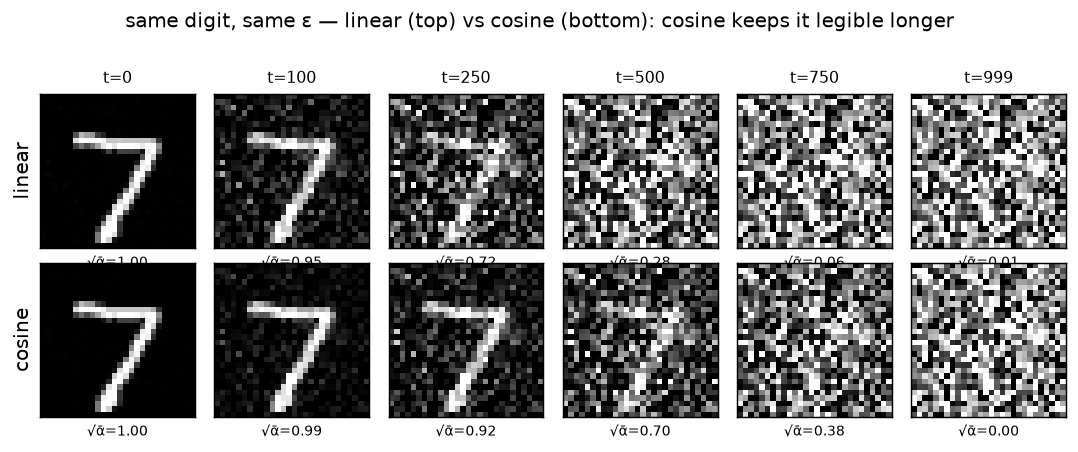
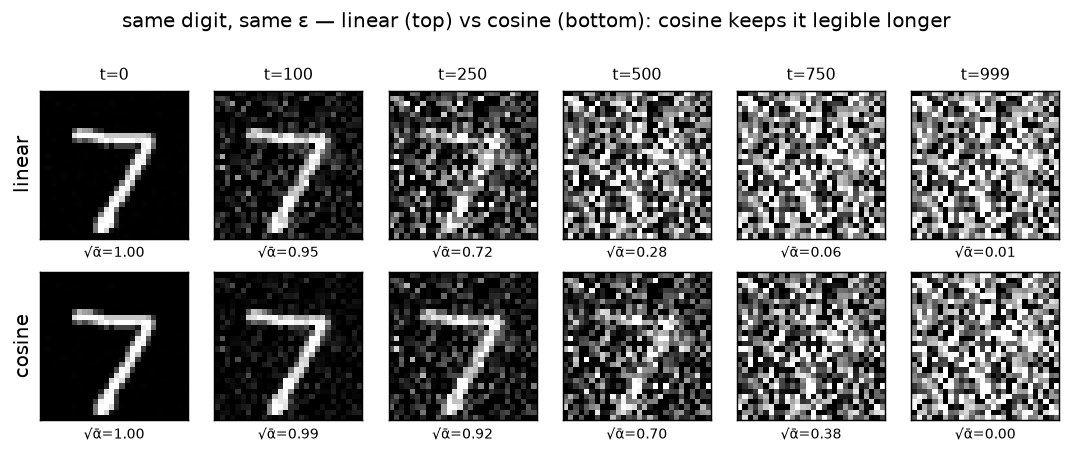
-

diff --git a/new/diffusion/walkthroughs/ddpm/children/forward_process/walkthroughs/forward_process.py b/new/diffusion/walkthroughs/ddpm/children/forward_process/walkthroughs/forward_process.py
@@ -201,6 +201,15 @@ def forward_iterative(x0, betas, t_idx, n_samples, generator=None):
     return x
 
 
+def forward_closed_form(x0, alpha_bars, t_idx, n_samples, generator=None):
+    """The ONE-JUMP forward process: x_t = √ᾱ_t·x0 + √(1-ᾱ_t)·ε, one fresh ε ~ N(0,1) per sample.
+    Same signature/return as forward_iterative so the two can be compared draw-for-draw — this is
+    the loop above collapsed into a single step by the derivation in the comment block."""
+    ab = alpha_bars[t_idx]
+    eps = torch.randn(n_samples, generator=generator)
+    return ab.sqrt() * x0 + (1.0 - ab).sqrt() * eps
+
+
 '''
 DERIVATION — the forward closed form  x_t = √ᾱ·x0 + √(1−ᾱ)·ε : why the t single steps
 collapse into ONE jump.
@@ -240,20 +249,30 @@ def exp_3_closed_form(seed=0, T=1000):
     g = torch.Generator().manual_seed(seed)
     betas, _, alpha_bars = make_linear_schedule(T=T)
 
-    # (A) we can't compare single samples (each draws its own noise); compare the DISTRIBUTION.
+    # (A) run BOTH procedures as Monte-Carlo and compare. We can't match single samples (each
+    #     draws its own noise), so compare the DISTRIBUTION each lands in — iterative (T-step loop)
+    #     vs closed form (one jump). Both should agree, and both should hit the analytic √ᾱ·x0 /
+    #     √(1-ᾱ) that the derivation predicts.
     x0 = torch.tensor(2.0)
     n = 40000
-    print("  (A) step-by-step vs one-jump. Noise a fixed x0=2.0 step-by-step 40k times to level t,")
-    print("      then compare its empirical mean/std to the closed form's √ᾱ·x0 and √(1-ᾱ):\n")
-    print(f"  {'t':>4} | {'iter mean':>10} {'iter std':>9} | {'√ᾱ·x0':>8} {'√(1-ᾱ)':>8}")
-    print(f"  {'-'*4}-+-{'-'*10}-{'-'*9}-+-{'-'*8}-{'-'*8}")
+    print("  (A) step-by-step vs one-jump. Noise a fixed x0=2.0 to level t, 40k times, TWO ways —")
+    print("      forward_iterative (the T-step loop) and forward_closed_form (the single jump) —")
+    print("      then read off each one's empirical mean/std. They should match each other, and")
+    print("      both should match the analytic √ᾱ·x0 and √(1-ᾱ):\n")
+    print(f"  {'t':>4} | {'iter mean':>10} {'iter std':>9} | {'closed mean':>11} {'closed std':>10} "
+          f"| {'√ᾱ·x0':>8} {'√(1-ᾱ)':>8}")
+    print(f"  {'-'*4}-+-{'-'*10}-{'-'*9}-+-{'-'*11}-{'-'*10}-+-{'-'*8}-{'-'*8}")
     for t in [100, 500, T - 1]:
-        xt = forward_iterative(x0, betas, t, n, generator=g)
+        xi = forward_iterative(x0, betas, t, n, generator=g)
+        xc = forward_closed_form(x0, alpha_bars, t, n, generator=g)
         ab = alpha_bars[t]
-        print(f"  {t:>4} | {xt.mean():>+10.4f} {xt.std():>9.4f} | "
+        print(f"  {t:>4} | {xi.mean():>+10.4f} {xi.std():>9.4f} | "
+              f"{xc.mean():>+11.4f} {xc.std():>10.4f} | "
               f"{(ab.sqrt()*x0).item():>+8.4f} {(1-ab).sqrt().item():>8.4f}")
-    print("\n      match → we can SKIP the T-step loop and jump straight to any t. That one-liner is")
-    print("      exactly what exp_1's dissolve and the parent's train loop use.\n")
+    print("\n      all three columns agree → the T-step loop and the one jump land in the SAME")
+    print("      distribution, and it's exactly the √ᾱ·x0 / √(1-ᾱ) the derivation predicts. So we")
+    print("      can SKIP the loop and jump straight to any t — what exp_1's dissolve and the")
+    print("      parent's train loop use.\n")
 
     # (B) why √: variance preservation. x0 ~ N(0,1) → Var(x_t) = ᾱ + (1-ᾱ) = 1 for every t.
     print("  (B) why the coefficients are √:  (√ᾱ)² + (√(1-ᾱ))² = ᾱ + (1-ᾱ) = 1. On unit-variance")
@@ -296,13 +315,15 @@ def exp_4_endpoint(seed=0, T=1000):
     print("  levels t, 40k times each, and watch their distributions converge:\n")
     print(f"  {'t':>4} | {'ᾱ':>9} | {'+2.0 mean':>9} {'std':>7} | {'-5.0 mean':>9} {'std':>7}")
     print(f"  {'-'*4}-+-{'-'*9}-+-{'-'*9}-{'-'*7}-+-{'-'*9}-{'-'*7}")
-    for t in [250, 500, 750, T - 1]:
+    for t in [0, 250, 500, 750, T - 1]:
         xa = forward_iterative(x0_a, betas, t, n, generator=g)
         xb = forward_iterative(x0_b, betas, t, n, generator=g)
         ab = alpha_bars[t].item()
         print(f"  {t:>4} | {ab:>9.5f} | {xa.mean():>+9.4f} {xa.std():>7.4f} | "
               f"{xb.mean():>+9.4f} {xb.std():>7.4f}")
     print()
+    print("  At t=0 the two are maximally distinct — mean ≈ x0 (+2.0 vs -5.0) with std ≈ 0 (ᾱ≈1, so")
+    print("  almost no noise yet): all the digit-specific information is intact.")
     print("  At t=250 the two are still far apart (means ≈ √ᾱ·x0: +1.44 vs -3.61) — the digit still")
     print("  shows through, exactly the mid columns of exp_1's dissolve. But as ᾱ→0 the signal term")
     print("  dies, and by t=999 BOTH are ≈ N(0,1): mean~0, std~1, indistinguishable. The forward")
@@ -430,7 +451,9 @@ def exp_6_linear_vs_cosine(seed=0, T=1000):
                 ax.set_ylabel(name, fontsize=11)
     fig.suptitle("same digit, same ε — linear (top) vs cosine (bottom): cosine keeps it legible longer",
                  fontsize=11)
-    fig.tight_layout(rect=(0, 0, 1, 0.95))
+    # h_pad gives the top row's per-cell √ᾱ labels room; without it they collapse against the
+    # cosine row below.
+    fig.tight_layout(rect=(0, 0, 1, 0.95), h_pad=2.5)
     os.makedirs(_FIGS, exist_ok=True)
     out = os.path.join(_FIGS, "06_linear_vs_cosine.png")
     fig.savefig(out, dpi=130, bbox_inches="tight")
@@ -516,11 +539,11 @@ def exp_7_snr(T=1000):
 def run_experiments():
     # exp_1_dissolve()
     # exp_2_schedule()
-    exp_3_closed_form()
+    # exp_3_closed_form()
     # exp_4_endpoint()
     # exp_5_cosine_schedule()
     # exp_6_linear_vs_cosine()
-    # exp_7_snr()
+    exp_7_snr()
 
 
 if __name__ == "__main__":

diff --git a/new/diffusion/walkthroughs/ddpm/children/forward_process/walkthroughs/notes/03_closed_form.md b/new/diffusion/walkthroughs/ddpm/children/forward_process/walkthroughs/notes/03_closed_form.md
@@ -22,19 +22,44 @@ match **in distribution**.
 
 ## (A) one-jump == step-by-step
 
-Noise a fixed `x0 = 2.0` step-by-step 40k times to level `t`, and compare the empirical
-mean/std of those draws to the closed form's predicted `√ᾱ·x0` and `√(1-ᾱ)`:
+Noise a fixed `x0 = 2.0` to level `t`, 40k times, **two ways** — `forward_iterative` (the T-step
+loop) and `forward_closed_form` (the single jump) — and read off each one's empirical mean/std.
+The two procedures should match each other, and both should match the analytic `√ᾱ·x0` / `√(1-ᾱ)`:
 
 ```
-   t |  iter mean  iter std |   √ᾱ·x0   √(1-ᾱ)
- -----+----------------------+-----------------
-  100 |   +1.8919   0.3240   |  +1.8922   0.3238
-  500 |   +0.5553   0.9571   |  +0.5578   0.9603
-  999 |   +0.0177   1.0060   |  +0.0127   1.0000
+   t |  iter mean  iter std | closed mean closed std |   √ᾱ·x0   √(1-ᾱ)
+ -----+----------------------+------------------------+-----------------
+  100 |   +1.8919   0.3240   |    +1.8947   0.3239    |  +1.8922   0.3238
+  500 |   +0.5554   0.9574   |    +0.5541   0.9639    |  +0.5578   0.9603
+  999 |   +0.0179   1.0069   |    +0.0157   0.9996    |  +0.0127   1.0000
 ```
 
-Mean and std match at every `t`. So the loop and the jump are the **same distribution** — we skip
-the loop. That one-liner is exactly what exp_1's dissolve drew and what the parent's train loop uses.
+All three columns agree at every `t`. The loop and the jump land in the **same distribution**, and
+it's exactly the `√ᾱ·x0` / `√(1-ᾱ)` the derivation predicts — so we skip the loop. That one-liner is
+exactly what exp_1's dissolve drew and what the parent's train loop uses.
+
+**Where the `√ᾱ·x0` and `√(1-ᾱ)` come from** — read them straight off the closed form. `x0` is a
+fixed constant and `ε ~ N(0,1)` (so `E[ε]=0`, `Var(ε)=1`); mean and variance are then just the two
+rules "shift/scale a constant" and "scaling by `c` multiplies variance by `c²`":
+
+```
+  x_t = √ᾱ·x0 + √(1-ᾱ)·ε ,   ε ~ N(0,1)
+
+  MEAN:  E[x_t] = E[ √ᾱ·x0 + √(1-ᾱ)·ε ]
+               = √ᾱ·x0 + √(1-ᾱ)·E[ε]        (linearity; √ᾱ·x0 is constant)
+               = √ᾱ·x0 + √(1-ᾱ)·0
+               = √ᾱ·x0                        ← the "√ᾱ·x0" column
+
+  VAR:   Var(x_t) = Var[ √ᾱ·x0 + √(1-ᾱ)·ε ]
+                  = Var[ √(1-ᾱ)·ε ]           (adding the constant √ᾱ·x0 shifts, doesn't spread)
+                  = (√(1-ᾱ))²·Var[ε]          (scaling by c → ×c² on variance)
+                  = (1-ᾱ)·1 = 1-ᾱ
+  STD:   √Var(x_t) = √(1-ᾱ)                    ← the "√(1-ᾱ)" column
+```
+
+So the closed form is `x_t ~ N(√ᾱ·x0, 1-ᾱ)`: the coefficient in front of `x0` **is** the mean, and
+the coefficient in front of `ε` **is** the std. (The `√α_s`/`√(1-α_s)` of a single step are the same
+statement for one hop; the derivation below is what lets us fold `T` hops into this one.)
 
 **Why they collapse into one jump** — compose two steps, leaning on three facts:
 

diff --git a/new/diffusion/walkthroughs/ddpm/children/forward_process/walkthroughs/notes/04_endpoint.md b/new/diffusion/walkthroughs/ddpm/children/forward_process/walkthroughs/notes/04_endpoint.md
@@ -16,7 +16,7 @@ From exp_3, the noised image has
 ```
 
 As `t → T`, `ᾱ_t → 0`, so the **signal term `√ᾱ·x0` vanishes** and the **std → 1**. Whatever `x0`
-was, `x_T ≈ N(0, I)`. The digit-specific part dies; only universal static is left.
+was, `x_T ≈ N(0, 1)`. The digit-specific part dies; only universal static is left.
 
 ---
 
@@ -28,12 +28,15 @@ their mean/std:
 ```
    t |    ᾱ     | +2.0 mean   std  | -5.0 mean   std
  -----+----------+------------------+-----------------
-  250 |  0.52142 |  +1.4458  0.6884 |  -3.6127  0.6935
-  500 |  0.07780 |  +0.5519  0.9616 |  -1.3923  0.9608
-  750 |  0.00330 |  +0.1132  1.0006 |  -0.2822  0.9965
-  999 |  0.00004 |  +0.0213  0.9965 |  -0.0362  1.0028
+    0 |  0.99990 |  +1.9998  0.0100 |  -4.9997  0.0100
+  250 |  0.52142 |  +1.4451  0.6885 |  -3.6124  0.6928
+  500 |  0.07780 |  +0.5515  0.9612 |  -1.3923  0.9603
+  750 |  0.00330 |  +0.1125  1.0003 |  -0.2836  0.9970
+  999 |  0.00004 |  +0.0207  0.9952 |  -0.0327  1.0042
 ```
 
+- **At the start (`t=0`)** the two are maximally distinct — mean `≈ x0` (`+2.0` vs `-5.0`) with
+  `std ≈ 0` (`ᾱ ≈ 1`, so almost no noise yet). All the digit-specific information is intact.
 - **Mid-way (`t=250`)** the two are still far apart — means `≈ √ᾱ·x0` = `+1.45` vs `-3.61`. The
   original still shows through (those are the *middle* columns of exp_1's dissolve, where the digit
   is grainy but legible).

diff --git a/new/diffusion/walkthroughs/ddpm/children/forward_process/walkthroughs/notes/07_snr.md b/new/diffusion/walkthroughs/ddpm/children/forward_process/walkthroughs/notes/07_snr.md
@@ -44,7 +44,10 @@ maximally ambiguous).
 
 **(2) log-SNR is the honest axis.** SNR crosses ~9 orders of magnitude, so only in log does the
 schedule look like a smooth ramp. The key landmark is `logSNR = 0` ⇔ `SNR = 1` ⇔ **signal power ==
-noise power** = the "halfway hard" point:
+noise power** = the "halfway hard" point. 
+
+`SNR = ᾱ/(1-ᾱ) = 1` means `ᾱ = 1-ᾱ`, i.e. `ᾱ = 0.5`, so
+signal power is `0.5` and noise power is `1 - 0.5 = 0.5` — `SNR = 0.5 / (1 - 0.5) = 1`:
 
 ```
   linear crosses logSNR=0 at t ≈ 259   → front-loads the easy end, then crams the tail at extreme low SNR
